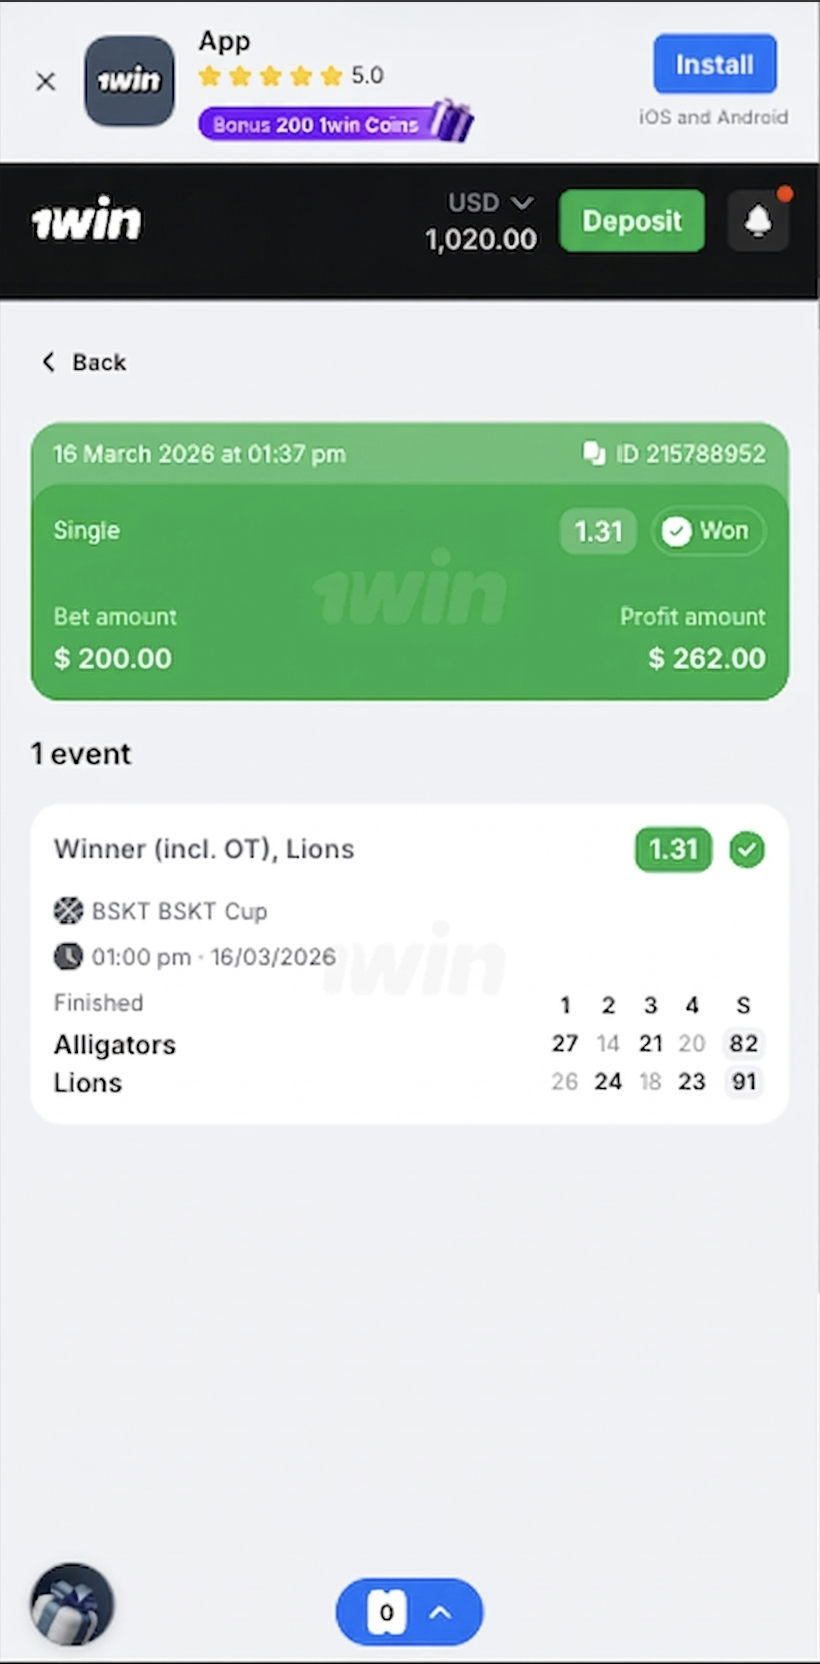
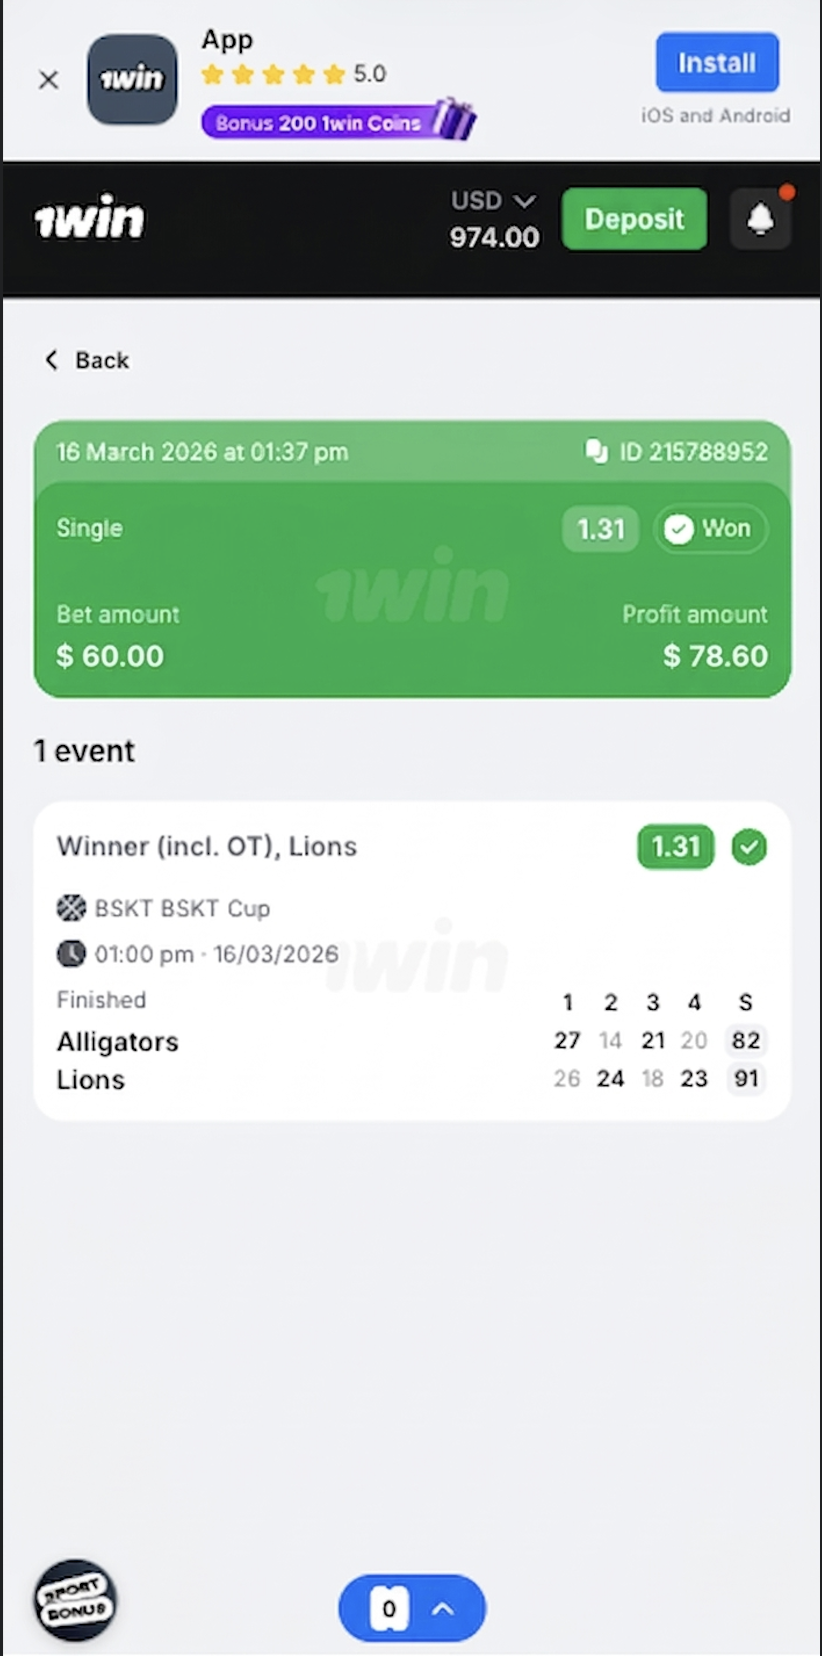
upadte

diff --git a/fortunobet/FortunoBetBot.py b/fortunobet/FortunoBetBot.py
@@ -95,25 +95,28 @@ posts = [
 {"date":"2026-03-18","time":"14:00","content":"💚 <b>$300 → $312. Vitalii Korniichuk ✅</b>\n\nInternational Men. Setka Cup Tennis. 🎾\nOdds 1.04 — ultra ultra safe bet.\n\n$12 profit. Small but certain.\nThree days, three wins, three different sports. 💸\n\nMon: Cyber NBA ✅\nTue: Replays EPL ✅\nWed: Tennis ✅\nDiversity = consistency. 🔥\n\nDeposit ₦100,000 → play with ₦600,000\n\n🔑 Code: <code>fortunobet</code>\n\n👉 <b>Start winning:</b>\nhttps://1wfafs.life/casino/list?open=register&p=z4m5","images":["win13.png"]},
 {"date":"2026-03-18","time":"23:30","content":"⏰ <b>Bonus expires 48 hours after registration</b>\n\nRegistered Monday? Bonus ends Wednesday 11:59 PM.\nRegistered Tuesday? Bonus ends Thursday 11:59 PM.\n\n500% bonus isn't lifetime.\nYou have 48 hours from registration. ⚡\n\nAfter 48 hours:\n❌ No bonus\n❌ Regular deposit only\n❌ Missed 500%\n\nRegistered already?\nCheck your time. Deposit before deadline. 🔥\n\n🔑 Code: <code>fortunobet</code>\n\n👉 <b>Deposit NOW:</b>\nhttps://1wfafs.life/casino/list?open=register&p=z4m5","images":["182.png"]},
 
-# ========== THURSDAY MARCH 19 ==========
 
-{"date":"2026-03-19","time":"15:00","content":"💚 <b>18 people registered this week</b>\n\n5 deposited = Playing now ✅\n13 watching = Still zero ❌\n\nThe 5 who deposited:\n✅ All got 500% bonus\n✅ All placed bets\n✅ 3 already won\n✅ 2 withdrew profits\n\nThe 13 still watching:\n❌ Registered Monday/Tuesday\n❌ Bonus expires soon\n❌ Still thinking\n❌ Still zero\n\nYou in the 5 or the 13? 💸\n\nDeposit ₦5,000 → play with ₦30,000\n\n🔑 Code: <code>fortunobet</code>\n\n👉 <b>Join the 5:</b>\nhttps://1wfafs.life/casino/list?open=register&p=z4m5","images":["191.png"]},
-{"date":"2026-03-19","time":"21:30","content":"💚 <b>$200 → $262. Lions ✅</b>\n\nBSKT BSKT Cup. Basketball. 🏀\nOdds 1.31 — safe bet, solid profit.\n\n$62 profit from one basketball match.\nFour days, four wins, four different leagues. 💸\n\nMon: Cyber NBA ✅\nTue: Replays EPL ✅\nWed: Tennis ✅\nThu: BSKT Cup ✅\nEvery day. Every sport. Every win. 🔥\n\nDeposit ₦80,000 → play with ₦480,000\n\n🔑 Code: <code>fortunobet</code>\n\n👉 <b>Join streak:</b>\nhttps://1wfafs.life/casino/list?open=register&p=z4m5","images":["win14.png"]},
+# ========== FRIDAY MARCH 19 ==========
+
+{"date":"2026-03-19","time":"15:00","content":"💸 <b>Withdrew $387 this morning — 21 minutes</b>\n\nRequested: 9:15 AM ✅\nArrived Opay: 9:36 AM ✅\n\n$387 USD = ₦580,500 Naira\nReal withdrawal. Real money. Real time. 💚\n\nThis is the 7th withdrawal this month.\nAll under 45 minutes. All arrived.\nEvery single one. Zero wahala.\n\nYou can't withdraw what you don't deposit.\nStart today. Withdraw next week.\n\nDeposit ₦10,000 → play with ₦60,000\n\n🔑 Code: <code>fortunobet</code>\n\n👉 <b>Start now:</b>\nhttps://1wfafs.life/casino/list?open=register&p=z4m5","images":["withdrow1.png"]},
+{"date":"2026-03-19","time":"21:30","content":"💚 <b>$60 → $78.60. Lions ✅</b>\n\nBSKT BSKT Cup. Basketball. 🏀\nOdds 1.31 — safe bet, small stake.\n\n$18.60 profit from one game.\nSmall stake, small win. 💸\n\nNot every bet is $300.\nI mix sizes: $60, $150, $300.\nSmart players manage bankroll. 🔥\n\nThis week I placed:\n5 big bets ($200-$300 each) = $242 profit ✅\n1 small bet ($60) = $18.60 profit ✅\n1 loss ($150) = Monday Tottenham ❌\n\nTotal net: +$110.60 this week.\nSmart betting = long-term profit. 💚\n\nDeposit ₦30,000 → play with ₦180,000\n\n🔑 Code: <code>fortunobet</code>\n\n👉 <b>Start smart:</b>\nhttps://1wfafs.life/casino/list?open=register&p=z4m5","images":["win14.png"]},
 
 # ========== FRIDAY MARCH 20 ==========
 
-{"date":"2026-03-20","time":"14:00","content":"💚 <b>$300 → $351. NS Rockets ✅</b>\n\nBSKT BSKT Cup. Basketball. 🏀\nOdds 1.17 — safe basketball bet.\n\n$51 profit from one game.\nFive days straight. Five wins straight. 💸\n\nMon→Tue→Wed→Thu→Fri\nAll green. All profit. Zero losses.\n100% win rate this week. 🔥\n\nDeposit ₦100,000 → play with ₦600,000\n\n🔑 Code: <code>fortunobet</code>\n\n👉 <b>Start your streak:</b>\nhttps://1wfafs.life/casino/list?open=register&p=z4m5","images":["win15.png"]},
-{"date":"2026-03-20","time":"23:30","content":"🔴 <b>TONIGHT ONLY: I'm depositing ₦50,000 LIVE</b>\n\nWatch me RIGHT NOW:\n✅ Enter code fortunobet\n✅ Deposit ₦50,000 via Opay\n✅ Get ₦300,000 balance (500% bonus)\n✅ Place first bet live\n✅ Show you EXACTLY how it works\n\nNo editing. No screenshots.\nReal deposit. Real time. Real screen recording.\n\nStill don't believe bonus works?\nWatch me do it. Then copy. 🔥\n\n🔑 Code: <code>fortunobet</code>\n\n👉 <b>Join after you watch:</b>\nhttps://1wfafs.life/casino/list?open=register&p=z4m5","images":["202.png"]},
+{"date":"2026-03-20","time":"14:00","content":"💔 <b>Lost $150 on Monday — sharing honestly</b>\n\nCyberFIFA H2H. Tottenham vs Arsenal. ⚽\nBet: Tottenham Win\nOdds: 1.92\nStake: $150\n\nResult: Arsenal won 1-0. Ticket lost. ❌\n\n$150 gone. Just like that. 😤\n\nThis is real betting.\nNot every bet wins.\nNot every day green.\n\nBut this week total:\n5 wins: +$242 ✅\n1 loss: -$150 ❌\nNet profit: +$92 💚\n\nMore wins than losses = profit.\nThat's the game. 🔥\n\nDeposit ₦50,000 → play with ₦300,000\n\n🔑 Code: <code>fortunobet</code>\n\n👉 <b>Join winners:</b>\nhttps://1wfafs.life/casino/list?open=register&p=z4m5","images":["lost1.png"]},
+{"date":"2026-03-20","time":"23:30","content":"💚 <b>18 people registered this week</b>\n\n5 deposited = Playing now ✅\n13 watching = Still zero ❌\n\nThe 5 who deposited:\n✅ All got 500% bonus\n✅ All placed bets\n✅ 3 already won\n✅ 2 withdrew profits\n\nThe 13 still watching:\n❌ Registered Monday/Tuesday\n❌ Bonus expires soon\n❌ Still thinking\n❌ Still zero\n\nYou in the 5 or the 13? 💸\n\nDeposit ₦5,000 → play with ₦30,000\n\n🔑 Code: <code>fortunobet</code>\n\n👉 <b>Join the 5:</b>\nhttps://1wfafs.life/casino/list?open=register&p=z4m5","images":["202.png"]},
 
 # ========== SATURDAY MARCH 21 ==========
 
-{"date":"2026-03-21","time":"11:00","content":"💰 <b>From ₦500 test to ₦50,000 deposit: Real journey</b>\n\nMonday: Registered, scared\nTuesday: Tested ₦500 → saw ₦3,000 balance\nWednesday: Bet ₦1,000, won ₦1,200\nThursday: Withdrew ₦2,500 (arrived 15min)\nFriday: Deposited ₦50,000 (confident now)\nSaturday: Balance ₦350,000 playing 💚\n\nThat's the smart path:\nTest small → Prove it works → Go big\n\nOr stay watching forever. Your choice. 🔥\n\n🔑 Code: <code>fortunobet</code>\n\n👉 <b>Start YOUR journey:</b>\nhttps://1wfafs.life/casino/list?open=register&p=z4m5","images":["211.png"]},
+{"date":"2026-03-21","time":"11:00","content":"💚 <b>Real member: From ₦2,000 test to ₦47,000 profit in 9 days</b>\n\n\"March 12: Registered, very scared\nMarch 13: Deposited ₦2,000 only (testing)\nMarch 14: Got ₦12,000 balance, bonus worked!\nMarch 14: Bet ₦3,500, won ₦4,900\nMarch 15: Withdrew ₦8,000 to prove it works\nMarch 16: Money arrived Opay 10:22 AM ✅\nMarch 17: Deposited ₦25,000 (confident now)\nMarch 18-20: Played, won ₦22,000 more\nMarch 21: Total withdrawn ₦47,000 profit 💚\" — Chidi, Port Harcourt\n\nFrom scared to ₦47,000 profit in 9 days.\nReal person. Real results. Real withdrawals.\n\nTest deposit → Withdrawal proof → Big deposit.\nThis is the smart path. 🔥\n\n🔑 Code: <code>fortunobet</code>\n\n👉 <b>Start YOUR test:</b>\nhttps://1wfafs.life/casino/list?open=register&p=z4m5","images":["211.png"]},
 {"date":"2026-03-21","time":"19:00","content":"💸 <b>This week: 8 first deposits, 8 active players ✅</b>\n\n✅ Monday: 2 deposited, both playing\n✅ Tuesday: 1 deposited, playing\n✅ Wednesday: 0 deposited (waiting)\n✅ Thursday: 3 deposited, all playing\n✅ Friday: 2 deposited, both playing\n✅ Total: 8 new players this week\n\nAll 8 still active.\nAll 8 got bonus.\nAll 8 placed bets.\n3 already withdrew profits. 💚\n\nNext week = your turn?\nOr still watching? 🔥\n\nDeposit ₦5,000 → play with ₦30,000\n\n🔑 Code: <code>fortunobet</code>\n\n👉 <b>Be player #9:</b>\nhttps://1wfafs.life/casino/list?open=register&p=z4m5","images":["212.png"]},
 
 # ========== SUNDAY MARCH 22 ==========
 
-{"date":"2026-03-22","time":"11:00","content":"💚 <b>5 days. 5 bets. 5 wins. $242 profit ✅</b>\n\nMon: $300→$369 (Cyber NBA) ✅\nTue: $300→$348 (Replays EPL) ✅\nWed: $300→$312 (Tennis) ✅\nThu: $200→$262 (Basketball) ✅\nFri: $300→$351 (Basketball) ✅\n\n100% win rate. Zero losses. 🔥\n\nThey joined this week. Already playing.\nYou're still watching.\n\nTwo weeks you watched.\nNext week? Still watching? 💸\n\nYour turn NOW.\n\nDeposit ₦100,000 → play with ₦600,000\n\n🔑 Code: <code>fortunobet</code>\n\n👉 <b>STOP WATCHING. START:</b>\nhttps://1wfafs.life/casino/list?open=register&p=z4m5","images":["win11.png","win12.png","win13.png","win14.png","win15.png"]},
+{"date":"2026-03-22","time":"11:00","content":"💚 <b>This week: 6 wins, 1 loss, $110.60 net profit ✅</b>\n\nWINS:\nMon: $300→$369 (Cyber NBA) +$69 ✅\nTue: $300→$348 (Replays EPL) +$48 ✅\nWed: $300→$312 (Tennis) +$12 ✅\nThu: $200→$262 (Basketball) +$62 ✅\nFri: $300→$351 (Basketball) +$51 ✅\nSat: $60→$78.60 (BSKT Cup) +$18.60 ✅\n\nLOSS:\nMon: CyberFIFA Tottenham - $150 lost ❌\n\nTotal wins: $260.60\nTotal losses: $150\nNet profit: $110.60 💸\n\n6 wins, 1 loss = 86% win rate.\nThis is real betting. Honest results. 🔥\n\nI showed you the loss Monday.\nI showed you every win.\nI showed you small bets and big bets.\nThis is transparency. 💚\n\nThey joined Monday. Already withdrew.\nYou watched all week. Still watching?\n\nThree weeks you watched.\nNext week? Still watching? 💸\n\nYour turn NOW.\n\nDeposit ₦100,000 → play with ₦600,000\n\n🔑 Code: <code>fortunobet</code>\n\n👉 <b>STOP WATCHING. START:</b>\nhttps://1wfafs.life/casino/list?open=register&p=z4m5","images":["win11.png","win12.png","win13.png","win14.png","win15.png","lost1.png"]},
 {"date":"2026-03-22","time":"22:00","content":"⏰ <b>Monday deadline: Deposit before midnight or lose 500%</b>\n\nRegistered this week?\nYour 48-hour bonus window closing:\n\n⚠ Registered Thursday = Expires Saturday 11:59 PM\n⚠ Registered Friday = Expires Sunday 11:59 PM\n⚠ Registered Saturday = Expires Monday 11:59 PM\n\nAfter deadline:\n❌ No 500% bonus\n❌ Regular deposits only\n❌ You missed it\n\nDeposit before Monday midnight.\nOr register again. Start timer over. 🔥\n\n🔑 Code: <code>fortunobet</code>\n\n👉 <b>Deposit NOW:</b>\nhttps://1wfafs.life/casino/list?open=register&p=z4m5","images":["221.png"]},
+
+
 ]
 
 # ====== FUNCTION TO SEND POSTS ======
